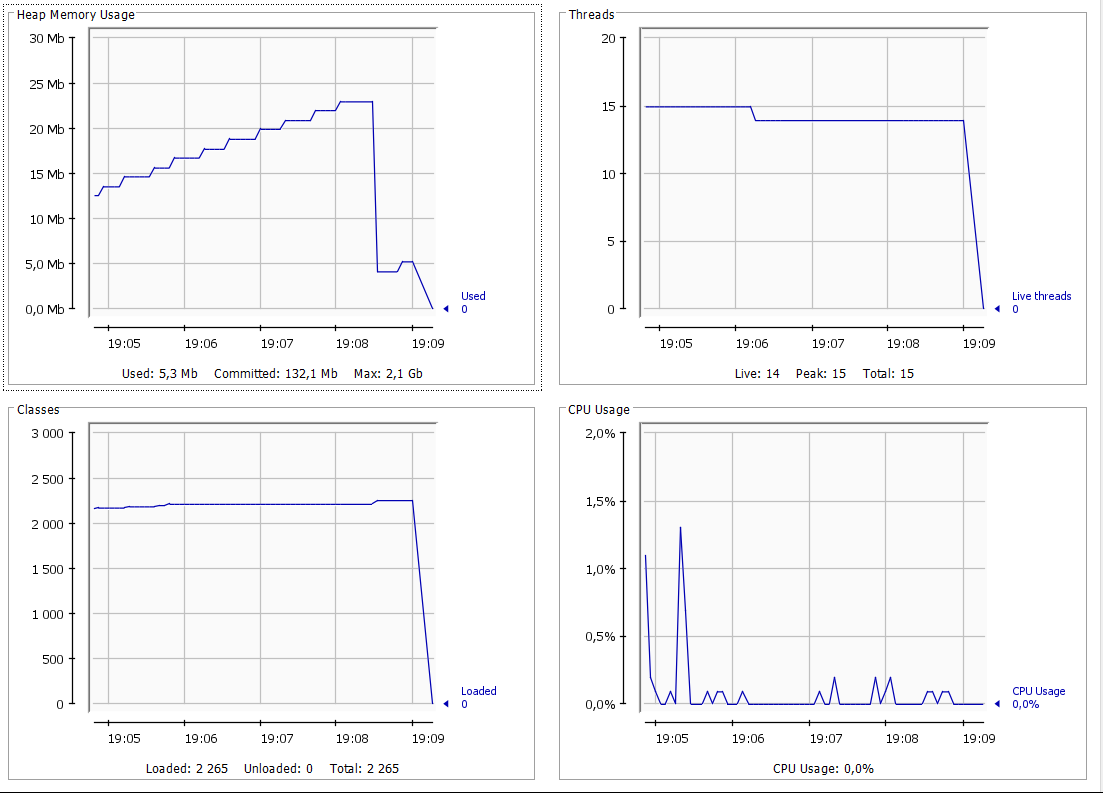
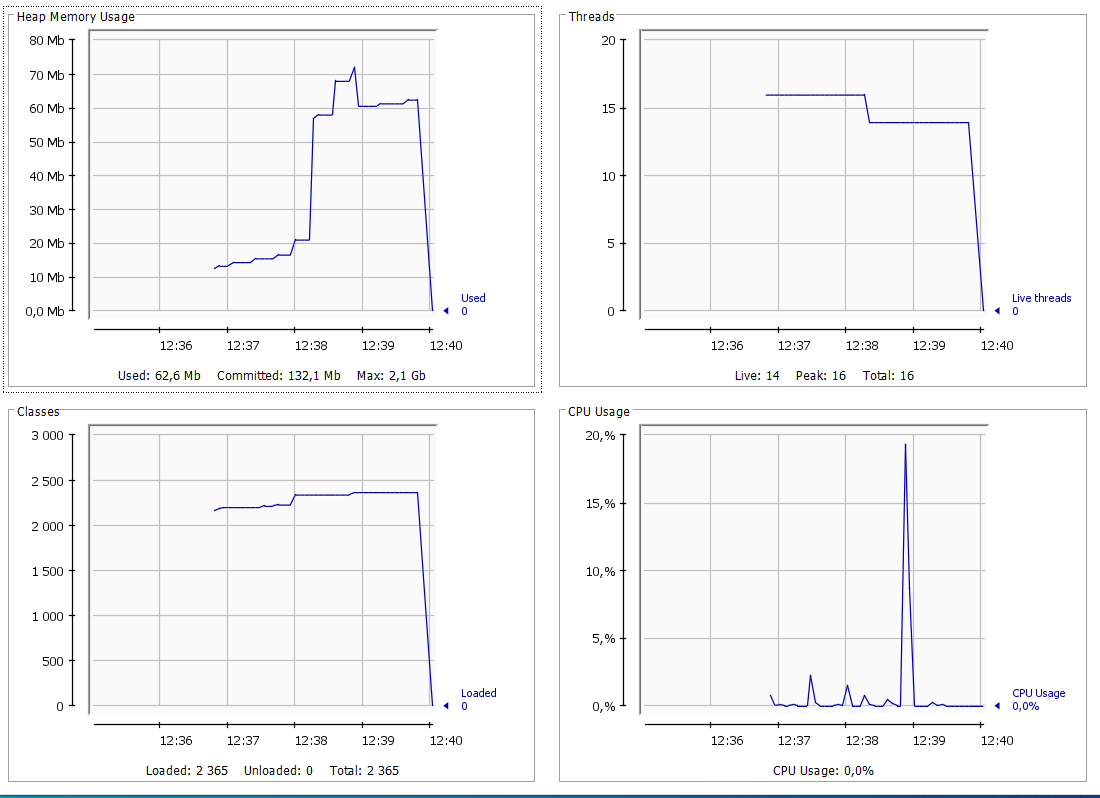
1. Профилирование. [#1591 #256129]

diff --git a/src/main/java/ru/job4j/tracker/gcTracker/ProfDeleteAction.java b/src/main/java/ru/job4j/tracker/gcTracker/ProfDeleteAction.java
@@ -1,10 +1,16 @@
 package ru.job4j.tracker.gcTracker;
 
-import ru.job4j.tracker.Input;
-import ru.job4j.tracker.Store;
-import ru.job4j.tracker.UserAction;
+import ru.job4j.tracker.*;
+
+import java.util.List;
 
 public class ProfDeleteAction implements UserAction {
+    private final Output out;
+
+    public ProfDeleteAction(Output out) {
+        this.out = out;
+    }
+
     @Override
     public String name() {
         return "Delete item";
@@ -12,9 +18,14 @@ public class ProfDeleteAction implements UserAction {
 
     @Override
     public boolean execute(Input input, Store tracker) {
-        for (int i = 0; i < 100000; i++) {
-            tracker.delete(i);
-            System.out.printf("%nDelete item: %d%n " + i);
+        List<Item> list = tracker.findAll();
+        if (list.size() != 0) {
+            for (Item item : list) {
+                tracker.delete(item.getId());
+                out.println("%nDelete item: %d%n " + item);
+            }
+        } else {
+            out.println("%nDelete item is not possible: %d%n ");
         }
         return true;
     }

diff --git a/src/main/java/ru/job4j/tracker/gcTracker/ProfAddAction.java b/src/main/java/ru/job4j/tracker/gcTracker/ProfAddAction.java
@@ -3,6 +3,11 @@ package ru.job4j.tracker.gcTracker;
 import ru.job4j.tracker.*;
 
 public class ProfAddAction implements UserAction {
+    private final Output out;
+
+    public ProfAddAction(Output out) {
+        this.out = out;
+    }
 
     @Override
     public String name() {
@@ -11,9 +16,10 @@ public class ProfAddAction implements UserAction {
 
     @Override
     public boolean execute(Input input, Store tracker) {
-        for (int i = 0; i < 1000000; i++) {
+        out.println("=== Create many new Items ====");
+        for (int i = 0; i < 100000; i++) {
             tracker.add(new Item("Many Items " + i));
-            System.out.printf("%nAdd item: %d%n " + i);
+            out.println("Add item: " + i);
         }
         return true;
     }

diff --git a/src/main/java/ru/job4j/tracker/StartUI.java b/src/main/java/ru/job4j/tracker/StartUI.java
@@ -45,8 +45,8 @@ public class StartUI {
                 new FindNameAction(output),
                 new FindItemAction(output),
                 new ExitAction(output),
-                new ProfAddAction(),
-                new ProfDeleteAction()
+                new ProfAddAction(output),
+                new ProfDeleteAction(output)
         };
         MemTracker tracker = new MemTracker();
         /*
